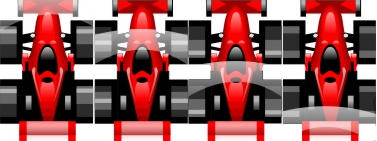
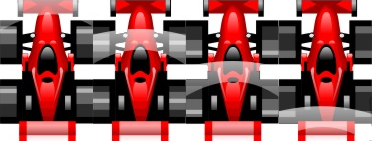
Add car movement

diff --git a/game.js b/game.js
@@ -1,11 +1,18 @@
-var Game = {};
-var KEY_CODES = {
-  32: 'space',
+function bind(scope, fn) {
+    return function () {
+        fn.apply(scope, arguments);
+    };
+}
+
+var InputStatus = {
   37: 'left',
   38: 'up',
   39: 'right',
   40: 'down',
 }
+
+var Game = {};
+
 Game.fps = 30;
 
 
@@ -15,16 +22,41 @@ Game.initialize = function() {
 
   this.car = new Image();
   this.car.src = 'car.png';
-  this.context.drawImage(this.car, 0, 0); 
+  this.context.drawImage(this.car, 0, 0);
+  this.carHeight = 141;
+  this.carWidth = 93;
   this.frameHeight = 600;
   this.frameWidth = 800;
   //numero de ciclos rodados do jogo
   this.cycles = 0;
 
   this.rect_x = this.frameWidth / 2;
-  this.rect_y = this.frameHeight;
+  this.rect_y = this.frameHeight - this.carWidth;
+  this.pressedKeys = {
+    left: false,
+    up: false,
+    right: false,
+    down: false
+  };
 
-
+  
+  var onkeydown = function(e) {
+    var keyCode = e.keyCode;
+    if (InputStatus[keyCode]) {
+      e.preventDefault();
+      this.pressedKeys[InputStatus[keyCode]] = true;
+    }
+  }
+  var onkeyup = function(e) {
+    var keyCode = e.keyCode;
+    if (InputStatus[keyCode]) {
+      e.preventDefault();
+      this.pressedKeys[InputStatus[keyCode]] = false;
+    }
+  }
+  document.addEventListener("keydown", bind(this, onkeydown), false);
+  document.addEventListener("keyup", bind(this, onkeyup), false);
+  
 };
 
 
@@ -41,8 +73,7 @@ Game.draw = function() {
     //y ''
     //largura da imagem final
     //altura da imagem final
-    console.log(Math.ceil(this.cycles / 100));
-    this.context.drawImage(this.car, 93 * (Math.ceil(this.cycles) % 4), 0, 93, 141, this.rect_x, this.rect_x, 100, 150);
+    this.context.drawImage(this.car, 93 * (Math.ceil(this.cycles) % 4), 0, 93, 141, this.rect_x, this.rect_y, 93, 141);
   }
   drawCar.apply(this);
   // Your code goes here
@@ -58,7 +89,18 @@ Game.update = function() {
   this.cycles ++;
   // =====
   // Example
-  
+  if(this.pressedKeys.left){
+    this.rect_x = this.rect_x - 5;
+  }
+  if(this.pressedKeys.right){
+    this.rect_x = this.rect_x + 5;
+  }
+  if(this.pressedKeys.up){
+    this.rect_y = this.rect_y - 5;
+  }
+  if(this.pressedKeys.down){
+    this.rect_y = this.rect_y  + 5 ;
+  }
   // =====
 };
 
